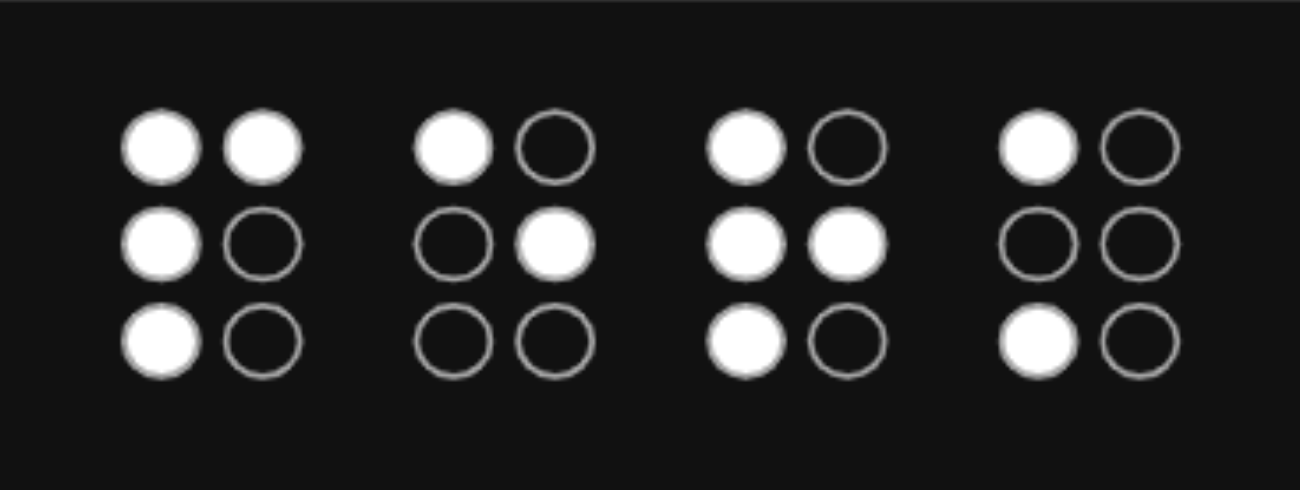
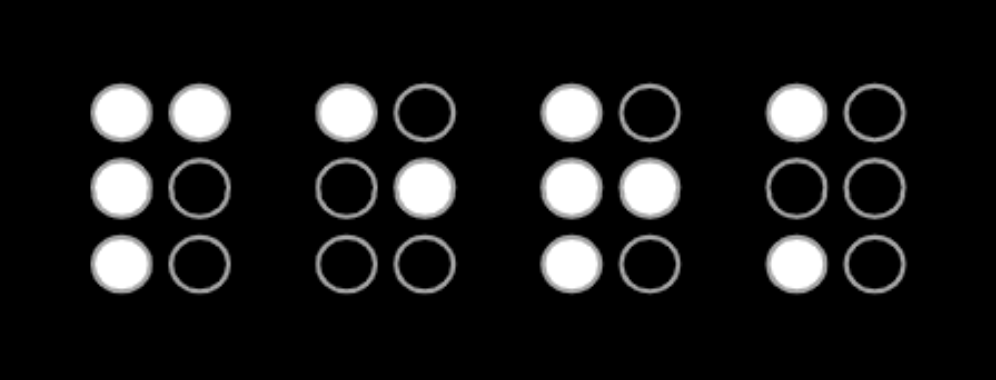
edits

diff --git a/EPICS BCI Code/Testing code/live_feed_page_testing.py b/EPICS BCI Code/Testing code/live_feed_page_testing.py
@@ -94,14 +94,14 @@ class IndividualBraillerViewBase:
 
         self.perk_braille_img = load_img(
             os.path.join(self.image_path, "PERK_Braille_Image_grey.png"), 
-            size=(302,110)
+            size=(302,108)
         )
     
         perk_logo = self.label_fn(
             self.root, 'nw', 
             img=self.perk_braille_img, 
             bd_width=0, 
-            location=(695, 6)
+            location=(695, 8)
         )
     
     def show_live_feed(self):

diff --git a/EPICS BCI Code/live_feed_page.py b/EPICS BCI Code/live_feed_page.py
@@ -94,14 +94,14 @@ class IndividualBraillerViewBase:
 
         self.perk_braille_img = load_img(
             os.path.join(self.image_path, "PERK_Braille_Image_grey.png"), 
-            size=(302,110)
+            size=(302,108)
         )
     
         perk_logo = self.label_fn(
             self.root, 'nw', 
             img=self.perk_braille_img, 
             bd_width=0, 
-            location=(695, 6)
+            location=(695, 8)
         )
     
     def show_live_feed(self):

diff --git a/EPICS BCI Code/Testing code/filters_page_testing.py b/EPICS BCI Code/Testing code/filters_page_testing.py
@@ -60,14 +60,14 @@ class SettingsViewBase:
 
         self.perk_braille_img = load_img(
             os.path.join(self.image_path, "PERK_Braille_Image_grey.png"),
-            size=(302,110)
+            size=(302,108)
         )
 
         perk_logo = self.label_fn(
             self.root, 'nw',
             img=self.perk_braille_img,
             bd_width=0,
-            location=(695, 6)
+            location=(695, 8)
         )
 
     def build_main_frames(self):

diff --git a/EPICS BCI Code/filters_page.py b/EPICS BCI Code/filters_page.py
@@ -60,14 +60,14 @@ class SettingsViewBase:
 
         self.perk_braille_img = load_img(
             os.path.join(self.image_path, "PERK_Braille_Image_grey.png"),
-            size=(302,110)
+            size=(302,108)
         )
 
         perk_logo = self.label_fn(
             self.root, 'nw',
             img=self.perk_braille_img,
             bd_width=0,
-            location=(695, 6)
+            location=(695, 8)
         )
 
     def build_main_frames(self):

diff --git a/EPICS BCI Code/Testing code/manage_braillers_testing.py b/EPICS BCI Code/Testing code/manage_braillers_testing.py
@@ -71,14 +71,14 @@ class ManageBraillersViewBase:
 
         self.perk_braille_img = load_img(
             os.path.join(self.image_path, "PERK_Braille_Image_grey.png"), 
-            size=(302,110)
+            size=(302,108)
         )
 
         perk_logo = create_label(
             self.root, 'nw', 
             img=self.perk_braille_img, 
             bd_width=0, 
-            location=(695, 6)
+            location=(695, 8)
         )
 
 # Brailler list

diff --git a/EPICS BCI Code/manage_braillers.py b/EPICS BCI Code/manage_braillers.py
@@ -71,14 +71,14 @@ class ManageBraillersViewBase:
 
         self.perk_braille_img = load_img(
             os.path.join(self.image_path, "PERK_Braille_Image_grey.png"), 
-            size=(302,110)
+            size=(302,108)
         )
 
         perk_logo = create_label(
             self.root, 'nw', 
             img=self.perk_braille_img, 
             bd_width=0, 
-            location=(695, 6)
+            location=(695, 8)
         )
 
 # Brailler list
